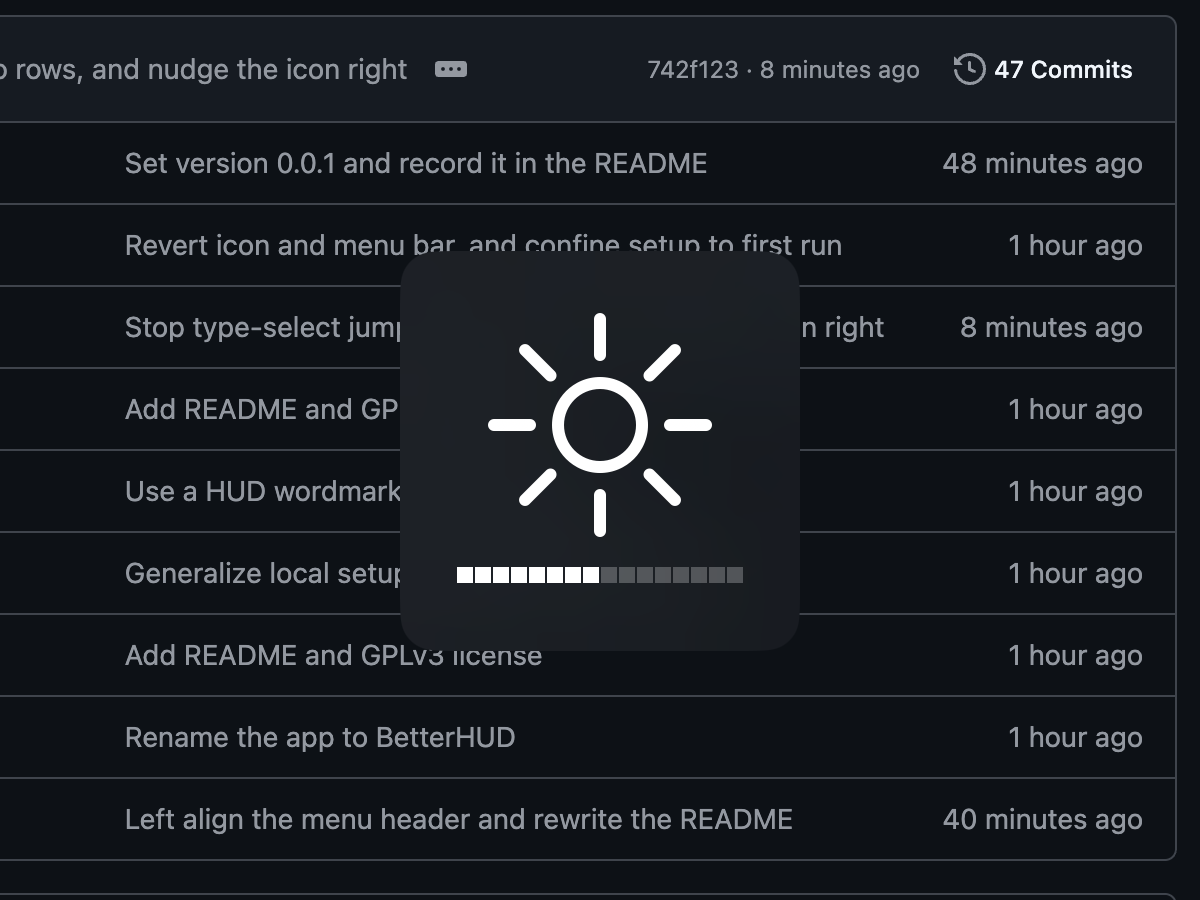
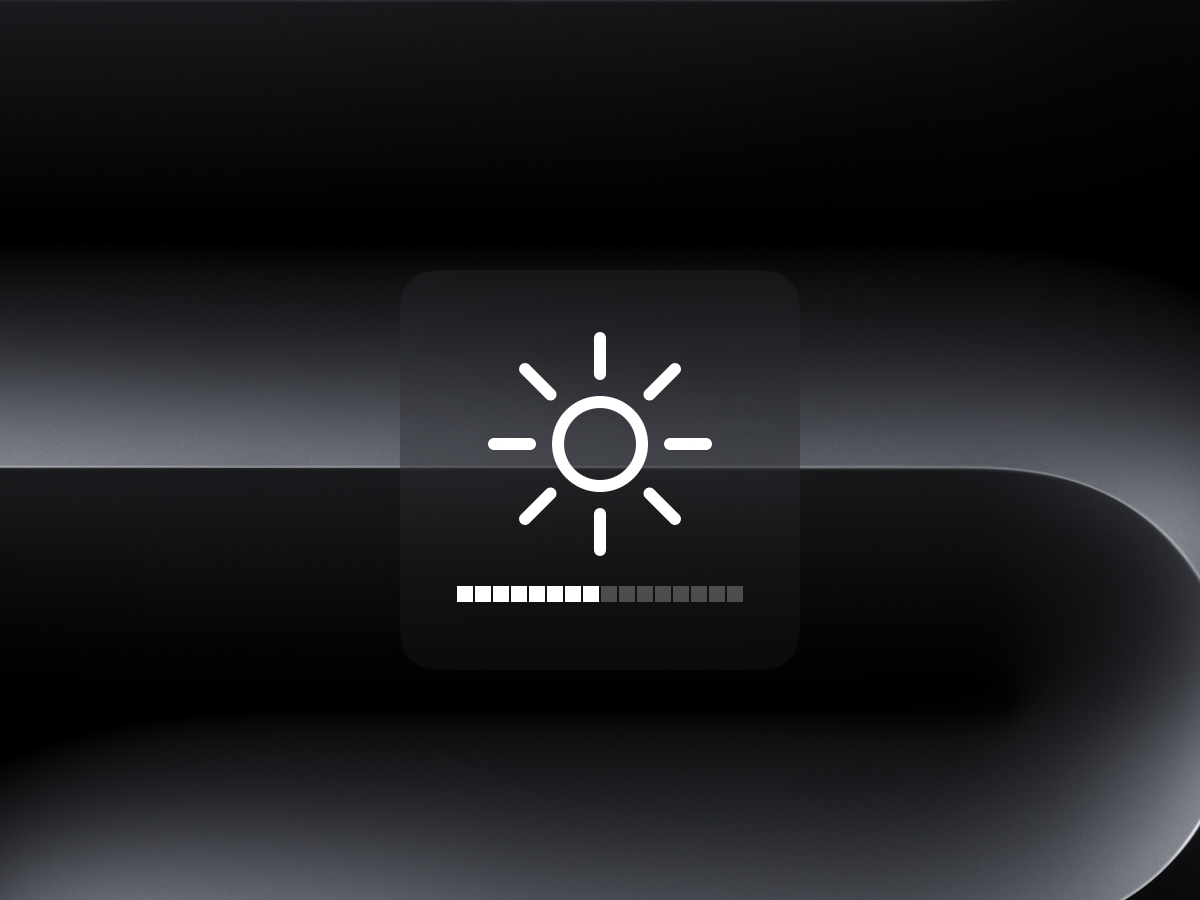
Update the screenshots
Brightness and volume on top, settings underneath, all three from the same
desktop so the backgrounds match. The two HUD shots use an identical crop and
sit at half the settings width, with no whitespace between the tags, so the
pair is exactly as wide as the shot below them.

diff --git a/README.md b/README.md
@@ -8,8 +8,8 @@ bring it back. While BetterHUD is running, the new indicator doesn't show up at
 all.
 
 <p align="center">
-  <img src="docs/volume.png" width="46%" alt="The volume HUD">
-  <img src="docs/brightness.png" width="46%" alt="The brightness HUD">
+  <img src="docs/brightness.png" width="436" alt="The brightness HUD"><img src="docs/volume.png" width="436" alt="The volume HUD">
+  <img src="docs/settings.png" width="872" alt="The settings window">
 </p>
 
 ## What it does
